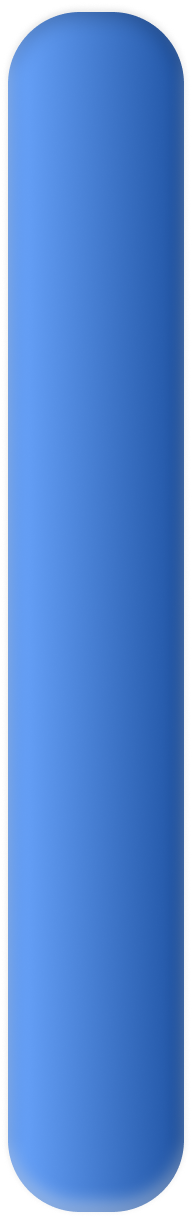
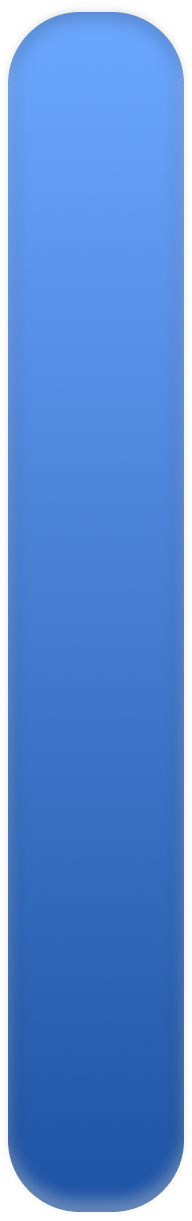
Adição dos textos na interface, edição de texturas

diff --git a/src/interfaceGrafica/SliderVolume.java b/src/interfaceGrafica/SliderVolume.java
@@ -15,7 +15,7 @@ public class SliderVolume {  //provavelmente vai ser completamente reformulada, 
     private Jaylib.Texture2D bolaEscuro;
 
     private Vector2 posicaoBola;
-    private final Vector2 POSICAO_BARRA = new Jaylib.Vector2(4400*ProgramaPrincipal.ESCALA, 80*ProgramaPrincipal.ESCALA); //y é 1280 ou 80
+    private final Vector2 POSICAO_BARRA = new Jaylib.Vector2(4400*ProgramaPrincipal.ESCALA, 80*ProgramaPrincipal.ESCALA);
 
     private final int VOLUME_UP = 265;
     private final int VOLUME_DOWN = 264;
@@ -33,15 +33,7 @@ public class SliderVolume {  //provavelmente vai ser completamente reformulada, 
         this.bolaEscuro = Jaylib.LoadTexture("./assets/ui/modo_escuro/slider_volume/bola_escuro.png");
     }
 
-    
-    /*private Jaylib.Texture2D retrieveTexture(boolean modoEscuro){
-        return modoEscuro? textura_Escuro : textura_Claro;
-    } */
-    
-    
-
-
-    private void desenhar (boolean modoEscuro){ //Tenho que mudar isso daqui
+    public void desenha(boolean modoEscuro, Jaylib.Color corTexto){ //Tenho que mudar isso daqui
         if (modoEscuro){
             Jaylib.DrawTextureEx(barraEscuro, POSICAO_BARRA, 0, ProgramaPrincipal.ESCALA , Jaylib.WHITE);
             Jaylib.DrawTextureEx(bolaEscuro, posicaoBola, 0, ProgramaPrincipal.ESCALA, Jaylib.WHITE);
@@ -50,10 +42,17 @@ public class SliderVolume {  //provavelmente vai ser completamente reformulada, 
             Jaylib.DrawTextureEx(barraClaro, POSICAO_BARRA, 0, ProgramaPrincipal.ESCALA , Jaylib.WHITE);
             Jaylib.DrawTextureEx(bolaClaro, posicaoBola, 0, ProgramaPrincipal.ESCALA, Jaylib.WHITE);
         }
+
+        Jaylib.DrawTextEx(InterfaceGrafica.getFonte(),
+                          "Volume",
+                          new Vector2(POSICAO_BARRA.x() - 25*ProgramaPrincipal.ESCALA, POSICAO_BARRA.y() + 1250*ProgramaPrincipal.ESCALA),
+                          80*ProgramaPrincipal.ESCALA,
+                          0,
+                          corTexto);
     }
 
     
-    public void criaBotaoVolume(boolean modoEscuro,ArrayList<Tecla> teclas) {
+    public void alterouVolume(ArrayList<Tecla> teclas) {
         for (Tecla tecla : teclas) {
             if (tecla.equals(new Tecla(VOLUME_UP,false))) {
                 volumeAtual += 0.01f;
@@ -78,8 +77,6 @@ public class SliderVolume {  //provavelmente vai ser completamente reformulada, 
                 Jaylib.SetMasterVolume(volumeAtual);
             }
         }
-        desenhar(modoEscuro);
-
     }
 
 }

diff --git a/src/interfaceGrafica/BotaoInstrumento.java b/src/interfaceGrafica/BotaoInstrumento.java
@@ -3,10 +3,6 @@ package interfaceGrafica;
 import com.raylib.Jaylib;
 import programaPrincipal.ProgramaPrincipal;
 
-/**
- * 
- */
-
 public class BotaoInstrumento {
 
     private static final Jaylib.Vector2 TAMANHO = new Jaylib.Vector2(400*ProgramaPrincipal.ESCALA, 400*ProgramaPrincipal.ESCALA);
@@ -73,6 +69,43 @@ public class BotaoInstrumento {
 
     public void desenha(boolean modoEscuro) {
         Jaylib.DrawTextureEx(retrieveIMG(modoEscuro), POSICAO, 0, ProgramaPrincipal.ESCALA, Jaylib.WHITE);
+
+        @SuppressWarnings("resource")
+        Jaylib.Color corTexto = new Jaylib.Color()
+                                          .r((byte) 0x51)
+                                          .g((byte) 0x51)
+                                          .b((byte) 0x51)
+                                          .a((byte) 0xFF);
+
+
+        if(modoEscuro){
+            if(estaAtivo)
+                corTexto.r((byte) 0xDA)
+                        .g((byte) 0x6C)
+                        .b((byte) 0x1C)
+                        .a((byte) 0xFF);
+            else
+                corTexto.r((byte) 0x8A)
+                        .g((byte) 0x8A)
+                        .b((byte) 0x8A)
+                        .a((byte) 0xFF);
+        }
+        else
+            if(estaAtivo)
+                corTexto.r((byte) 0x44)
+                        .g((byte) 0x80)
+                        .b((byte) 0xDC)
+                        .a((byte) 0xFF);
+
+        String nomeInstrumentoPrimeiraMaiuscula = nomeInstrumento.substring(0, 1).toUpperCase() + nomeInstrumento.substring(1);
+
+        Jaylib.DrawTextEx(InterfaceGrafica.getFonte(), 
+                          nomeInstrumentoPrimeiraMaiuscula, 
+                          new Jaylib.Vector2(POSICAO.x() + 200*ProgramaPrincipal.ESCALA - Jaylib.MeasureTextEx(InterfaceGrafica.getFonte(), nomeInstrumentoPrimeiraMaiuscula, 90*ProgramaPrincipal.ESCALA, 0).x()/2,
+                                             POSICAO.y() + 450*ProgramaPrincipal.ESCALA),
+                          90*ProgramaPrincipal.ESCALA,
+                          0,
+                          corTexto);
     }
 
     public boolean foiClicado(){

diff --git a/src/interfaceGrafica/TecladoInterfaceGrafica.java b/src/interfaceGrafica/TecladoInterfaceGrafica.java
@@ -35,7 +35,7 @@ public class TecladoInterfaceGrafica {
 
                 char oitavaChar = partes[1].charAt(partes[1].length() - 1);
                 int oitava = oitavaChar - '0';
-                if (nomeNota.charAt(0) == 'C' && oitava < menorOitava) {
+                if (/*nomeNota.charAt(0) == 'C' &&*/ oitava < menorOitava) {
                     this.menorOitava = oitava;
                 }
                 NOTAS.put(tecla, nomeNota);
@@ -57,7 +57,7 @@ public class TecladoInterfaceGrafica {
         this.TEXTURA_ESCURO = Jaylib.LoadTexture("./assets/ui/modo_escuro/piano/default.png");
     }
 
-    public void desenha(boolean modoEscuro, ArrayList<Tecla> teclas) {
+    public void desenha(boolean modoEscuro, ArrayList<Tecla> teclas, String instrumentoNome) {
 
         if (!modoEscuro) {
             Jaylib.DrawTextureEx(TEXTURA_CLARO, new Jaylib.Vector2(0, 1304 * ProgramaPrincipal.ESCALA), 0,
@@ -72,11 +72,12 @@ public class TecladoInterfaceGrafica {
                 String nomeNota = NOTAS.get(tecla);
                 int oitava = nomeNota.charAt(nomeNota.length() - 1) - '0' - menorOitava;
 
-                if (oitava >= 0 && oitava < 3) {
+                if (oitava >= 0 && oitava < 3 && instrumentoNome != "bateria") {
                     TECLAS.get(tecla).desenha(modoEscuro);
                 }
             }
         }
+        
     }
 
 }

diff --git a/src/interfaceGrafica/InterfaceGrafica.java b/src/interfaceGrafica/InterfaceGrafica.java
@@ -1,7 +1,6 @@
 package interfaceGrafica;
 
 import implementacao.*;
-import programaPrincipal.ProgramaPrincipal;
 
 import com.raylib.Jaylib;
 import java.nio.IntBuffer;
@@ -39,6 +38,10 @@ public class InterfaceGrafica {
         return botoesInstrumentos.getInstrumento();
     }
 
+    public static Jaylib.Font getFonte() {
+        return fonte;
+    }
+
     public void desenha(ArrayList<Tecla> teclas) {
 
         Jaylib.Color corTexto = new Jaylib.Color();
@@ -62,15 +65,12 @@ public class InterfaceGrafica {
             Jaylib.DrawTextureEx(TEXTURA_FUNDO_CLARO, new Jaylib.Vector2(0, 0), 0, 1, Jaylib.WHITE);
         }
 
-        Jaylib.DrawFPS(10, 10);
-
-        Jaylib.DrawTextEx(fonte, "Modo Escuro", new Jaylib.Vector2(3540*ProgramaPrincipal.ESCALA, 320*ProgramaPrincipal.ESCALA), 80*ProgramaPrincipal.ESCALA, 0, corTexto);
-        botaoModoEscuro.desenha();
-        tecladoInterfaceGrafica.desenha(modoEscuro, teclas);
+        sliderVolume.alterouVolume(teclas);
+        
+        botaoModoEscuro.desenha(corTexto);
+        tecladoInterfaceGrafica.desenha(modoEscuro, teclas, this.getInstrumento());
         botoesInstrumentos.desenha(this.modoEscuro);
-        sliderVolume.criaBotaoVolume( modoEscuro, teclas);
-        // sliderVolume.desenha(modoEscuro);
-
+        sliderVolume.desenha(modoEscuro, corTexto);
     }
 
 }

diff --git a/src/interfaceGrafica/BotaoModoEscuro.java b/src/interfaceGrafica/BotaoModoEscuro.java
@@ -32,11 +32,13 @@ public class BotaoModoEscuro {
             this.estaModoEscuro = false;
     }
 
-    public void desenha() {
+    public void desenha(Jaylib.Color corTexto) {
         if (estaModoEscuro)
             Jaylib.DrawTextureEx(TEXTURA_ON, POSICAO, 0, ProgramaPrincipal.ESCALA, Jaylib.WHITE);
         else
             Jaylib.DrawTextureEx(TEXTURA_OFF, POSICAO, 0, ProgramaPrincipal.ESCALA, Jaylib.WHITE);
+        
+        Jaylib.DrawTextEx(InterfaceGrafica.getFonte(), "Modo Escuro", new Jaylib.Vector2(POSICAO.x() - 25*ProgramaPrincipal.ESCALA, POSICAO.y() + 175*ProgramaPrincipal.ESCALA), 80*ProgramaPrincipal.ESCALA, 0, corTexto);
     }
 
     public boolean foiClicado() {

diff --git a/src/implementacao/Teclado.java b/src/implementacao/Teclado.java
@@ -11,7 +11,6 @@ public class Teclado {
 
         for (int teclaCodificada = 0; teclaCodificada <= 346; teclaCodificada++) { // 346 é o maior código associado a uma tecla em Raylib
             if (Jaylib.IsKeyDown(teclaCodificada)) {
-                System.out.println("Tecla pressionada: " + teclaCodificada);
                 Tecla tecla = new Tecla(teclaCodificada, true);
                 teclasPressionadas.add(tecla);
             }
